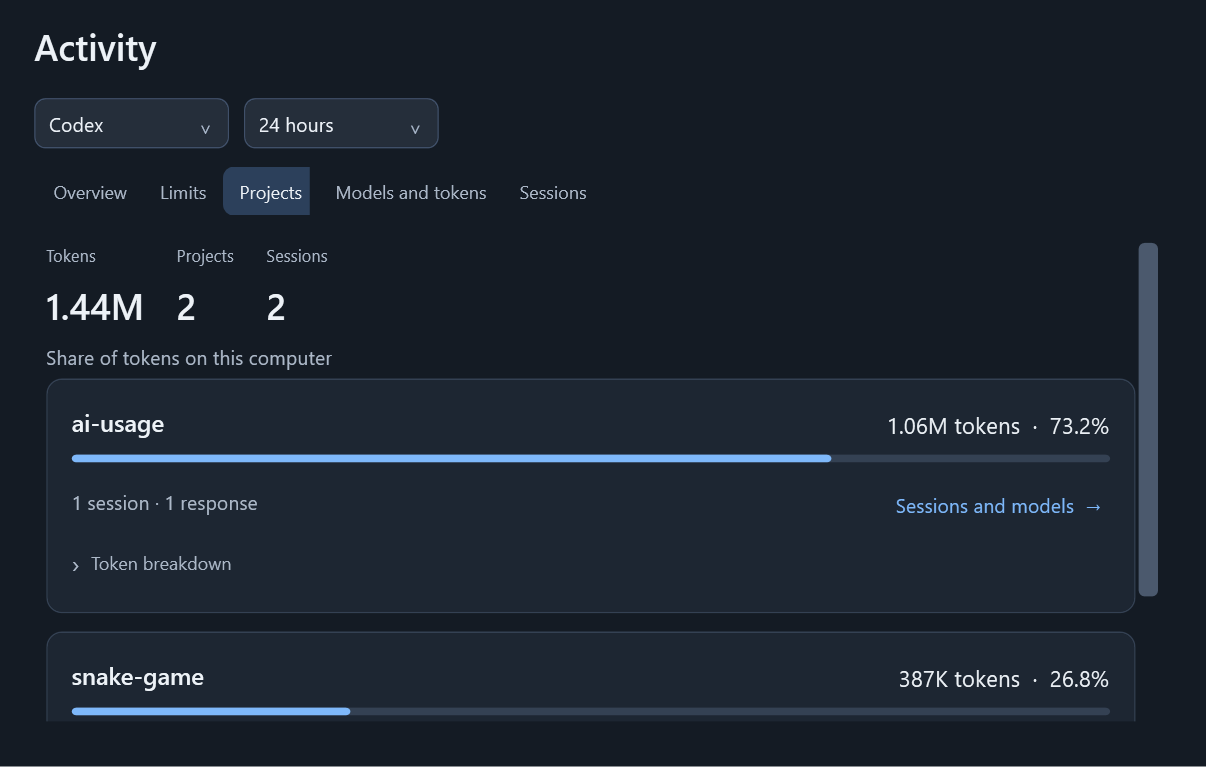
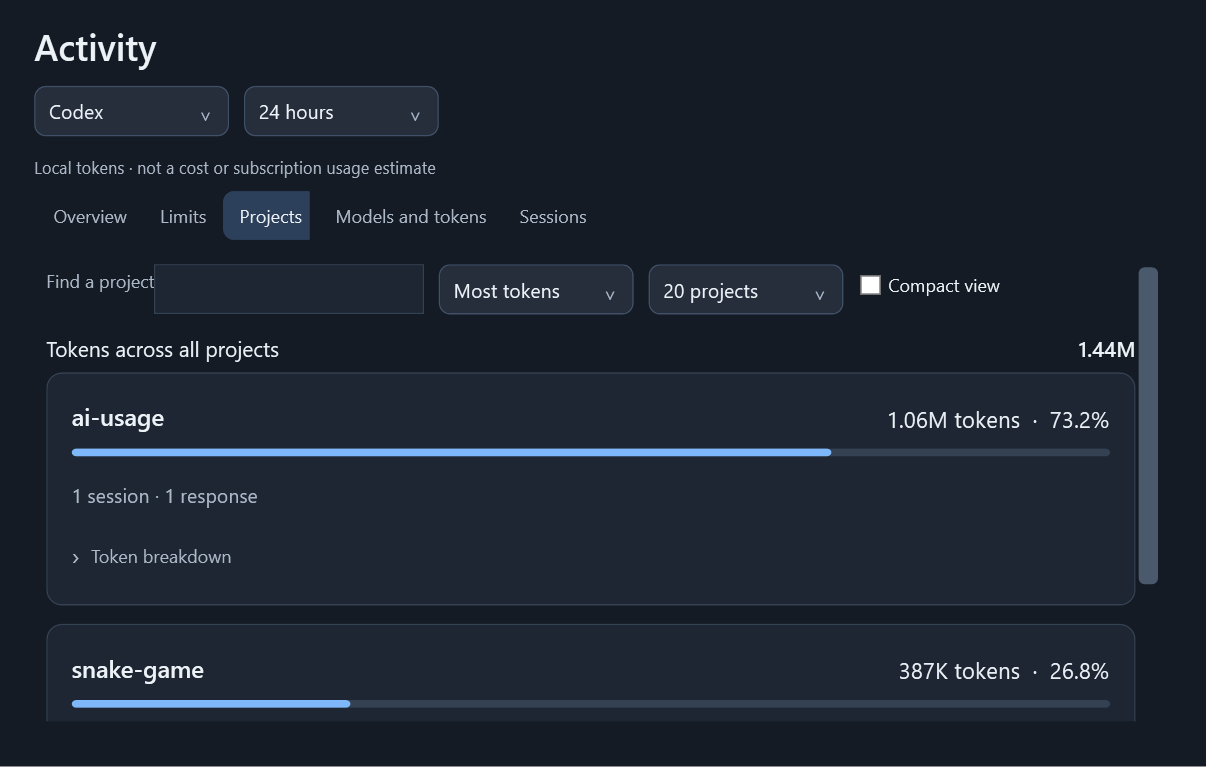
docs: refresh statistics screenshots and available controls

diff --git a/README.md b/README.md
@@ -28,7 +28,10 @@ English is the default; Polish is available in Options. [Prefer still images?](#
   typing while working, waving when they need you, and breathing softly at rest.
   A text label explains each state; character animations can be switched off in Options.
 - **History behind the numbers.** Explore quota history, projects, sessions and model
-  token totals. Local token estimates remain separate from subscription percentages.
+  token totals, with an activity chart and last-hour, today, 24-hour or 7-day ranges.
+  Search and sort projects, choose 20, 50 or all results, switch to compact rows,
+  and filter live sessions by status. Local token estimates remain separate from
+  subscription percentages.
 - **A widget that stays out of the way.** Switch between compact and full views,
   check the tray percentage, and get a notification when a quota is running low.
 
